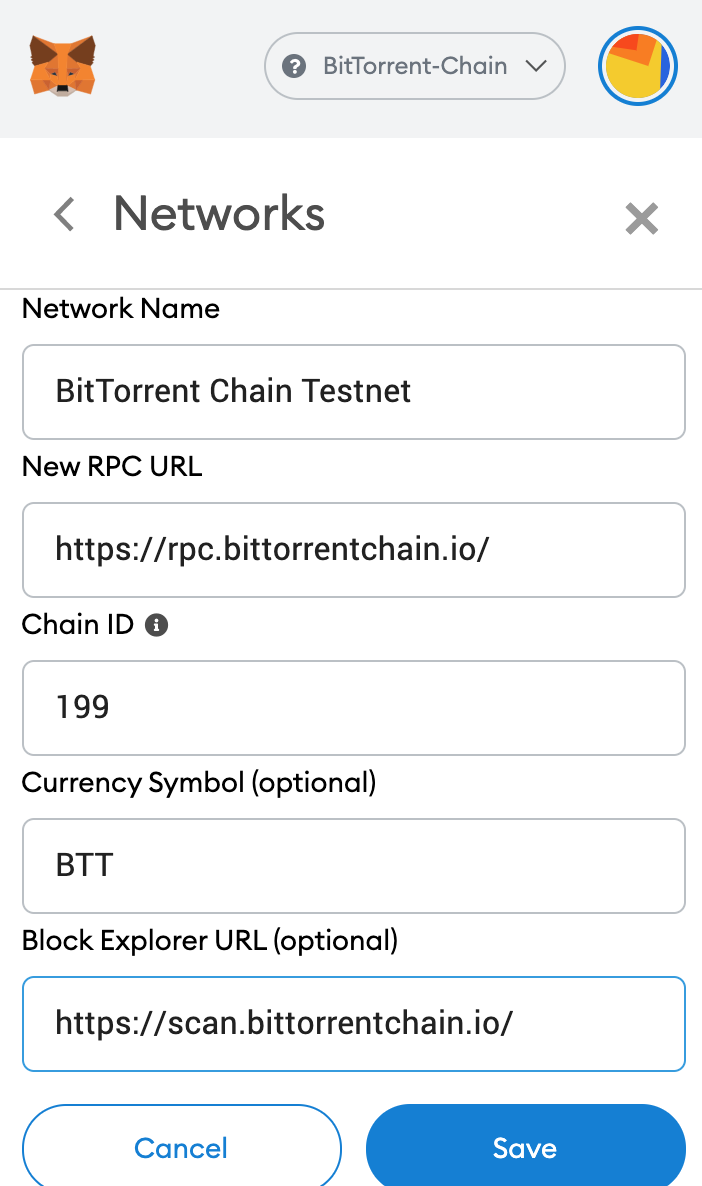
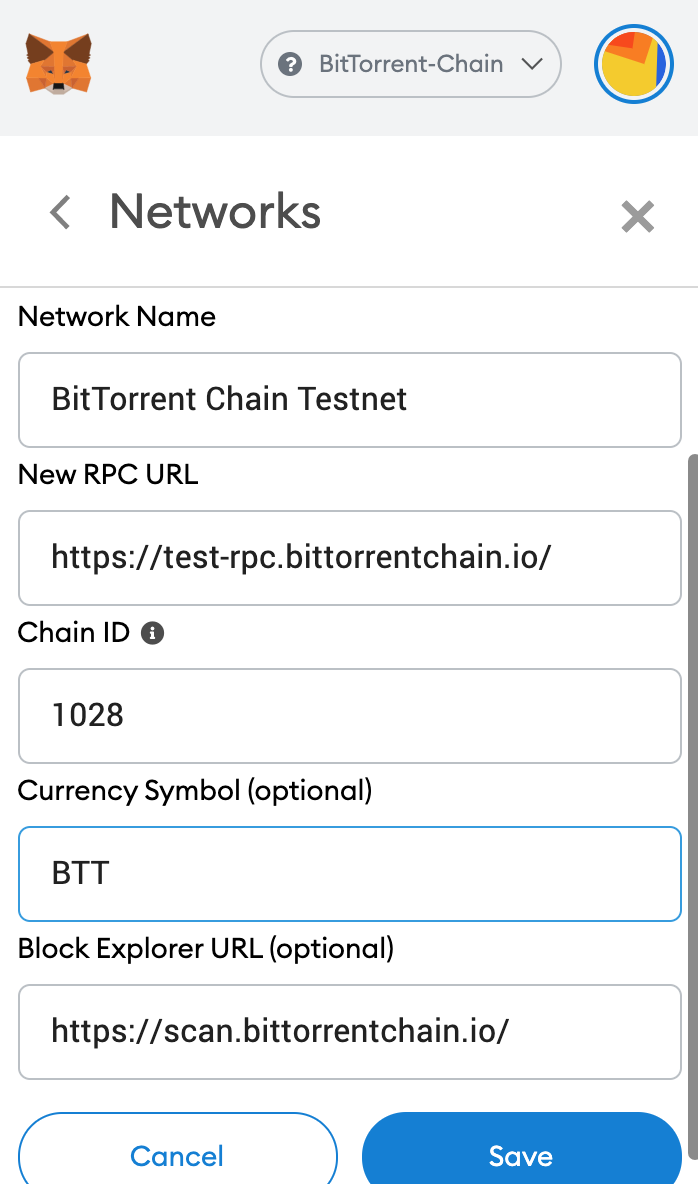
doc(dapp): change testnet config

diff --git a/docs/en/dapp.md b/docs/en/dapp.md
@@ -63,10 +63,11 @@ Open the MetaMask wallet and select Custom RPC in the drop-down menu as shown in
 
 Fill in according to the information in the picture:
 
-* Network Name：BitTorrent-Chain
-* RPC URL：http://47.90.133.100:8545
-* Chain ID：198
-* Currency Symbol：BTT
+* Network Name: BitTorrent Chain Testnet
+* RPC URL: https://test-rpc.bittorrentchain.io/
+* Chain ID: 1028
+* Currency Symbol: BTT
+* Explorer: https://scan.bittorrentchain.io/
 
 ![image](../pics/dapp/5.png)
 
@@ -289,10 +290,11 @@ Open Metamask and select Custom RPC from the networks dropdown
 
 Fill in the information as per the chart：
 
-* Network Name: BitTorrent-Chain
-* New RPC URL: http://47.90.133.100:8545
-* Chain ID: 198
+* Network Name: BitTorrent Chain Testnet
+* RPC URL: https://test-rpc.bittorrentchain.io/
+* Chain ID: 1028
 * Currency Symbol: BTT
+* Explorer: https://scan.bittorrentchain.io/
 
 ![image](../pics/dapp/5.png)
 

diff --git a/docs/dapp.md b/docs/dapp.md
@@ -59,10 +59,11 @@ contract HelloWorld {
 
 按照图中的信息填写：
 
-* Network Name：BitTorrent-Chain
-* RPC URL：http://47.90.133.100:8545
-* Chain ID：198
-* Currency Symbol：BTT
+* Network Name: BitTorrent Chain Testnet
+* RPC URL: https://test-rpc.bittorrentchain.io/
+* Chain ID: 1028
+* Currency Symbol: BTT
+* Explorer: https://scan.bittorrentchain.io/
 
 ![image](./pics/dapp/5.png)
 
@@ -285,10 +286,11 @@ mapping(uint256 => Tracking) public trackings;
 
 按照图中的信息填写：
 
-* Network Name: BitTorrent-Chain
-* New RPC URL: http://47.90.133.100:8545
-* Chain ID: 198
+* Network Name: BitTorrent Chain Testnet
+* RPC URL: https://test-rpc.bittorrentchain.io/
+* Chain ID: 1028
 * Currency Symbol: BTT
+* Explorer: https://scan.bittorrentchain.io/
 
 ![image](./pics/dapp/5.png)
 
